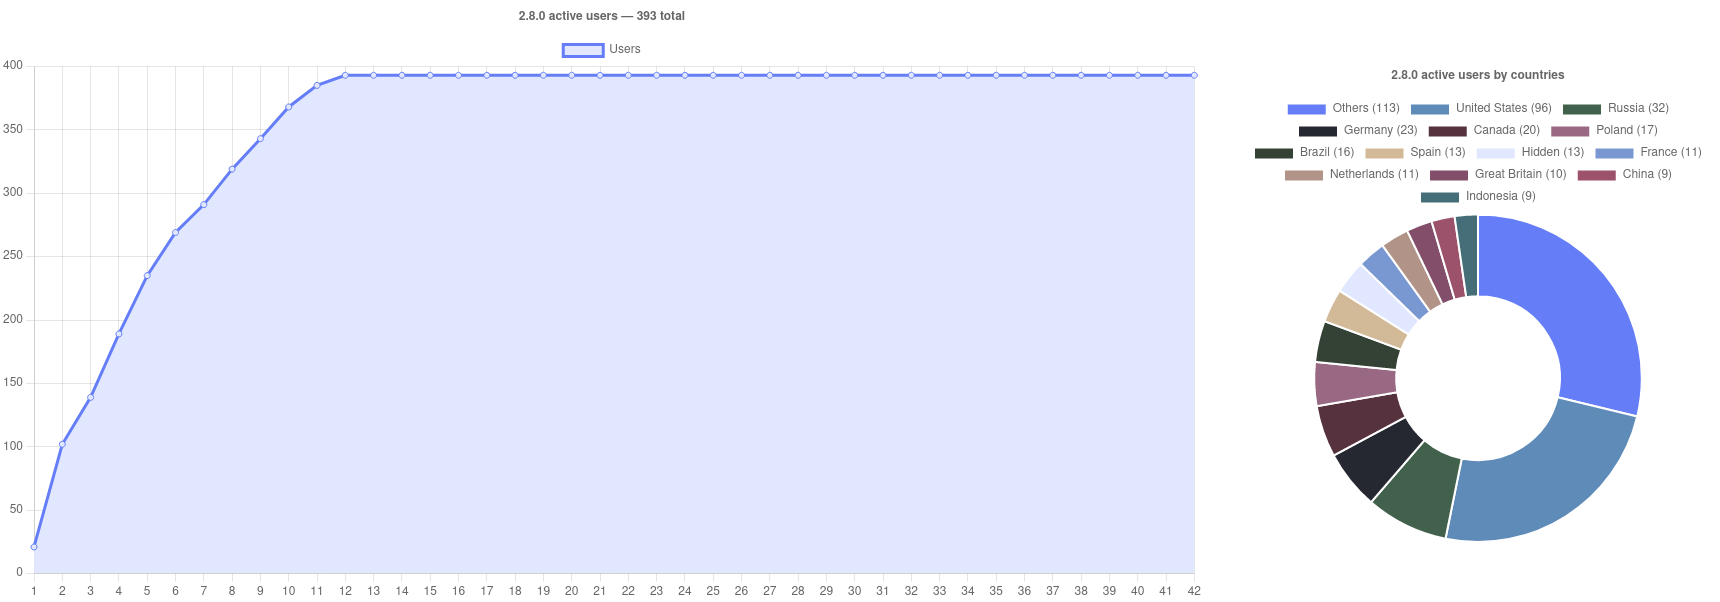
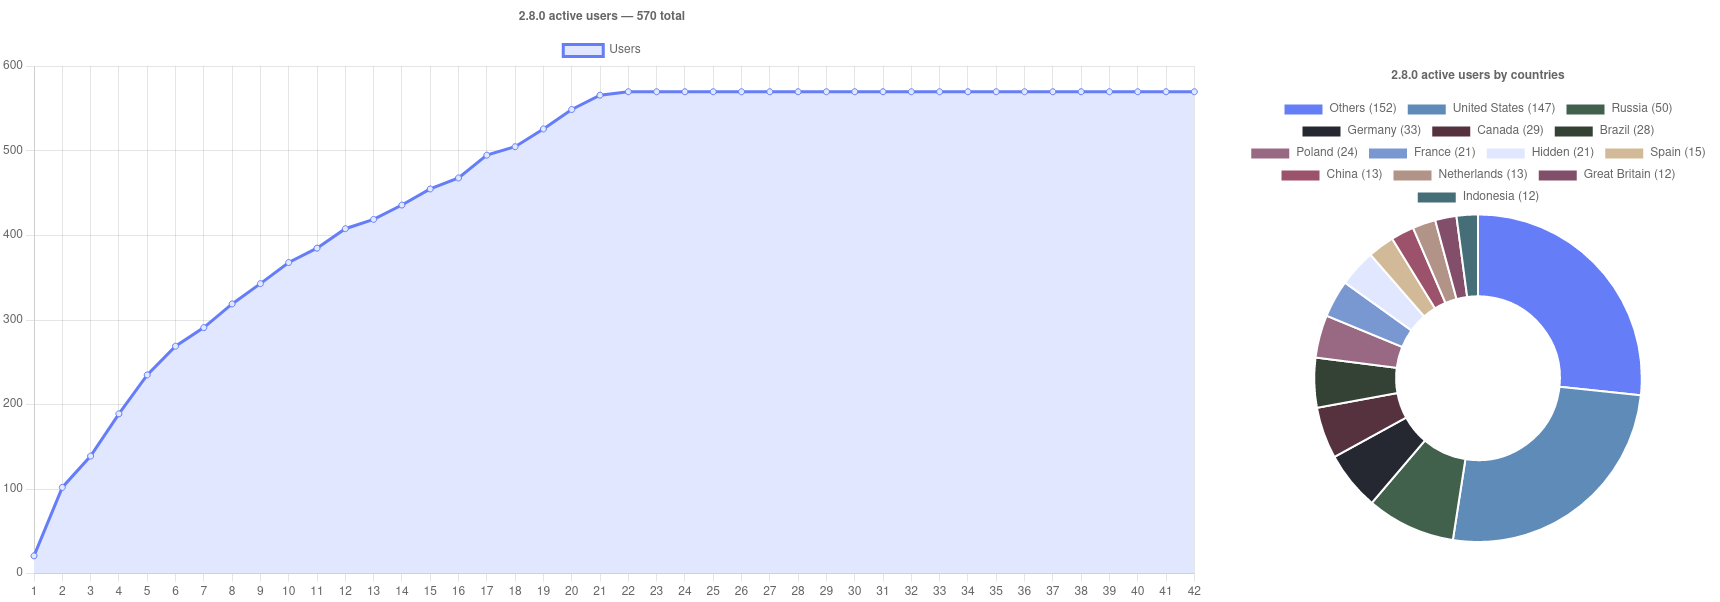
Updated repository pics and stats

diff --git a/README.md b/README.md
@@ -77,11 +77,11 @@ We have our own [An Anime Game](https://discord.gg/ck37X6UWBp) discord server wh
 
 This is our current usage statistics. You can find older ones [here](repository/pages/STATISTICS.md)
 
-### Our discord server — 1,273 members
+### Our discord server — 1,465 members
 
-<img src="repository/pics/stats/2022/jun29-jul13.png">
+<img src="repository/pics/stats/2022/jul20-aug3.png">
 
-### 2.8.0 launcher users — 393 total
+### 2.8.0 launcher users — 570 total
 
 <img src="repository/pics/stats/2.8.0.png">
 

diff --git a/repository/pages/STATISTICS.md b/repository/pages/STATISTICS.md
@@ -10,6 +10,10 @@ Our current statistics you can find in [readme](../../README.md)
 
 Start date: July 13, 2022
 
+| Period | Data |
+| - | - |
+| Jul 20 — Aug 3 | <img src="../pics/stats/2022/jul20-aug3.png" height="400px"> |
+
 ### Launcher analytics (by users choice)
 
 <img src="../pics/stats/2.8.0.png">
